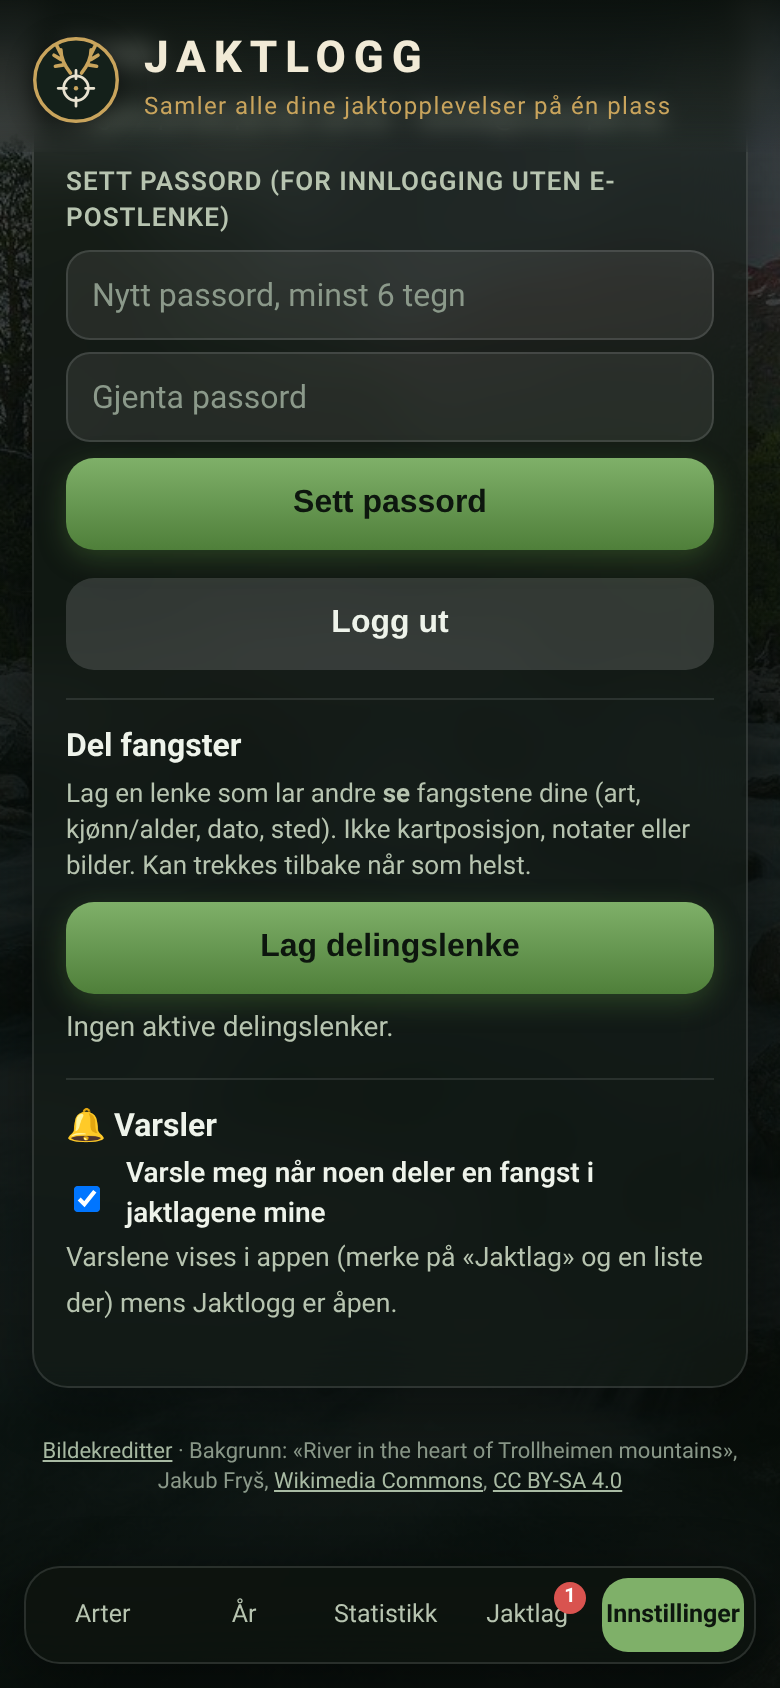
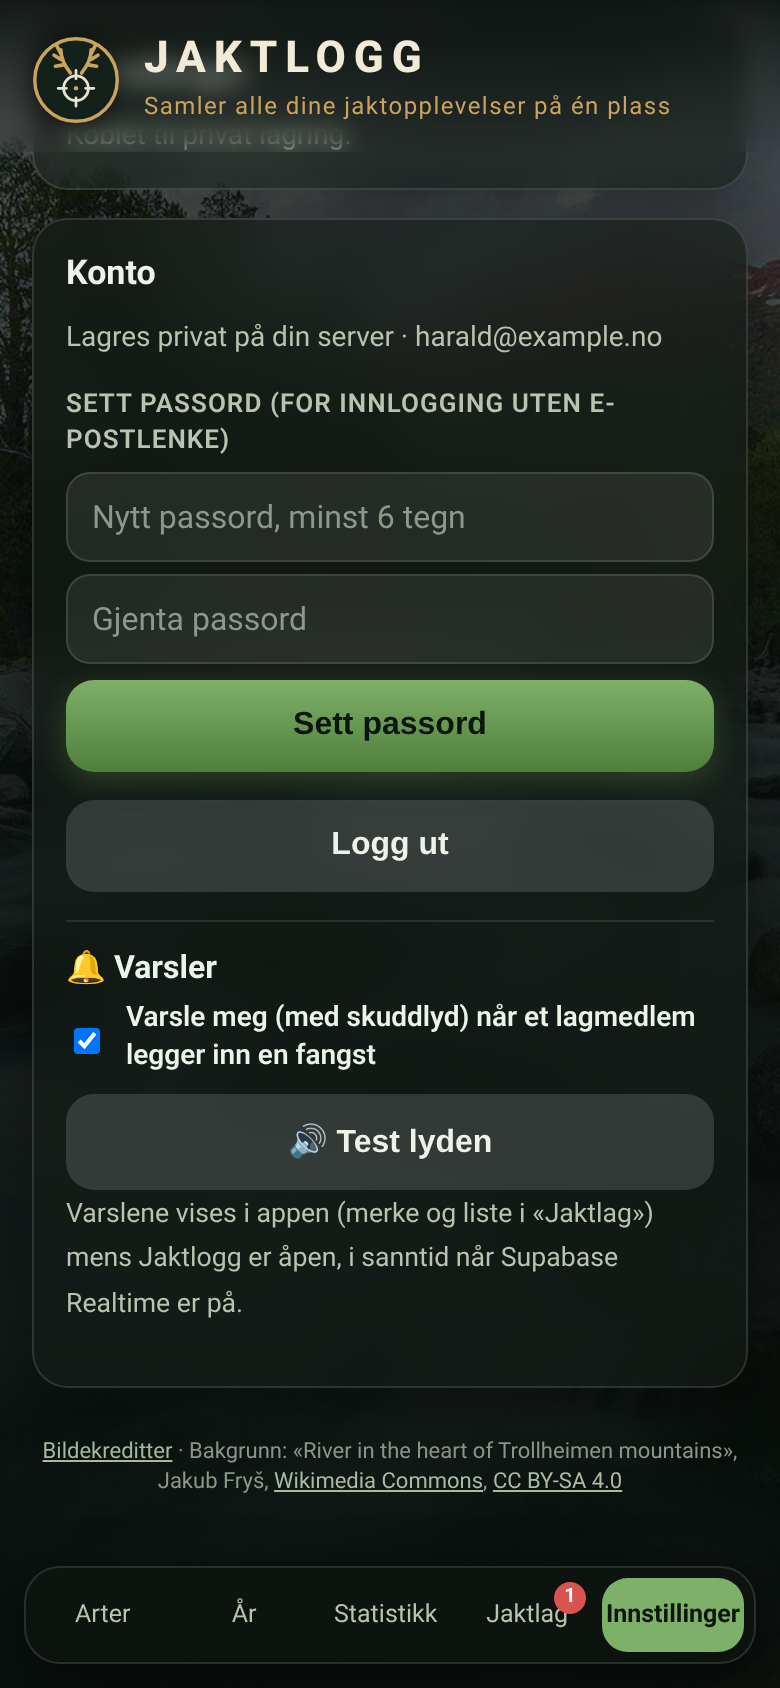
Fjern delingslenke-seksjon; automatisk deling av nye fangster til jaktlag (trigger), rifleskudd-lyd og Realtime-varsler

Changed region(s): [[0.0615, 0.0308, 0.9231, 0.8009], [0.9231, 0.0924, 0.9538, 0.154]]

diff --git a/index.html b/index.html
@@ -352,7 +352,7 @@ async function renderLag(id){$('view').innerHTML='<div class="empty">Laster jakt
  if(!t){$('view').innerHTML='<div class="empty">Fant ikke jaktlaget (eller du er ikke medlem).</div>';return}
  const own=t.owner===sbUser.id,c=cat||[],by={};c.forEach(r=>{(by[r.species]=by[r.species]||[]).push(r)});
  $('view').innerHTML=`<div class="panel"><button class="btn sec" id="lback" style="width:auto;margin:0 0 8px;padding:6px 12px">‹ Jaktlag</button><h2 style="margin:0">👥 ${esc(t.name)}</h2><p style="color:var(--m);font-size:13px;margin:4px 0 0">${(mem||[]).length} medlem${(mem||[]).length===1?'':'mer'} · ${c.length} delte fangster</p></div>
- <h2>Fangster i laget</h2>${ce?`<div class="empty">${esc(teamErr(ce))}</div>`:c.length?`<div class="panel">${Object.entries(by).sort((a,b)=>b[1].length-a[1].length).map(([s,l])=>`<div class="strow"><div class="sttop"><b>${esc(s)}</b><span>${l.length}</span></div>${l.map(r=>`<small style="display:block">${fmt(isoToLocal(r.taken_at))}${r.animal_class?' · '+esc(r.animal_class):''}${r.sted?' · '+esc(r.sted):''} · ${r.mine?'deg':esc(r.hunter||'')}</small>`).join('')}</div>`).join('')}</div>`:'<div class="empty">Ingen fangster delt i laget ennå. Åpne en fangst og velg «Del med jaktlag».</div>'}
+ <h2>Fangster i laget</h2>${ce?`<div class="empty">${esc(teamErr(ce))}</div>`:c.length?`<div class="panel">${Object.entries(by).sort((a,b)=>b[1].length-a[1].length).map(([s,l])=>`<div class="strow"><div class="sttop"><b>${esc(s)}</b><span>${l.length}</span></div>${l.map(r=>`<small style="display:block">${fmt(isoToLocal(r.taken_at))}${r.animal_class?' · '+esc(r.animal_class):''}${r.sted?' · '+esc(r.sted):''} · ${r.mine?'deg':esc(r.hunter||'')}</small>`).join('')}</div>`).join('')}</div>`:'<div class="empty">Ingen fangster delt i laget ennå. Nye fangster fra medlemmene dukker opp her automatisk.</div>'}
  <h2>Medlemmer</h2><div class="panel"><ul id="mlist" style="list-style:none;padding:0;margin:0">${(mem||[]).map(m=>`<li class="sttop" style="padding:6px 0"><span>${esc(m.email)}${m.role==='owner'?' <small style="color:var(--m)">(lagleder)</small>':''}</span>${own&&m.role!=='owner'?`<button class="btn sec" data-rm="${esc(m.email)}" style="width:auto;margin:0;padding:4px 10px">Fjern</button>`:''}</li>`).join('')}</ul>
  ${own?`<div class="maprow" style="margin-top:8px"><input id="minv" type="email" placeholder="E-post til medlem" style="flex:1"><button class="btn" id="madd" style="width:auto;margin:0;padding:10px 14px">Inviter</button></div><p style="color:var(--m);font-size:12px">Det sendes ingen e-post. Si fra til personen: de logger inn i Jaktlogg med denne e-postadressen, så dukker laget opp under «Jaktlag».</p>${''}<button class="btn danger" id="ldel" style="margin-top:8px">Slett jaktlaget</button>`:`<button class="btn sec" id="lleave" style="margin-top:8px">Forlat laget</button>`}<p id="lmsg" style="font-size:13px;color:var(--m)"></p></div><div style="height:90px"></div>`;
  $('lback').onclick=()=>setTab('lag');
@@ -362,20 +362,27 @@ async function renderLag(id){$('view').innerHTML='<div class="empty">Laster jakt
  if($('ldel'))$('ldel').onclick=async()=>{if(!confirm('Slette jaktlaget for alle? Fangstene selv slettes ikke.'))return;await sb.from('teams').delete().eq('id',id);setTab('lag')}}
 async function teamShareUI(x){if(!sbUser||!sb||Store!==SupabaseStore||!$('tshare'))return;let t;try{t=await myTeams()}catch(e){return}if(!t.length)return;
  const{data:sh}=await sb.from('team_entries').select('team_id').eq('entry_id',x.id);const on=new Set((sh||[]).map(r=>r.team_id));
- $('tshare').innerHTML=`<p style="margin:12px 0 4px">👥 <b>Del med jaktlag</b> <small style="color:var(--m)">(kun art, type, dato og sted)</small></p>${t.map(z=>`<label class="kopt" style="display:flex;gap:8px;align-items:center;margin:4px 0"><input type="checkbox" data-ts="${z.id}" ${on.has(z.id)?'checked':''} style="position:static;opacity:1;width:auto">${esc(z.name)}</label>`).join('')}<small id="tsm" style="color:var(--m)"></small>`;
+ $('tshare').innerHTML=`<p style="margin:12px 0 4px">👥 <b>Synlig i jaktlag</b> <small style="color:var(--m)">(deles automatisk; fjern haken for å holde den privat)</small></p>${t.map(z=>`<label class="kopt" style="display:flex;gap:8px;align-items:center;margin:4px 0"><input type="checkbox" data-ts="${z.id}" ${on.has(z.id)?'checked':''} style="position:static;opacity:1;width:auto">${esc(z.name)}</label>`).join('')}<small id="tsm" style="color:var(--m)"></small>`;
  document.querySelectorAll('[data-ts]').forEach(c=>c.onchange=async()=>{const r=c.checked?await sb.from('team_entries').insert({team_id:c.dataset.ts,entry_id:x.id}):await sb.from('team_entries').delete().eq('team_id',c.dataset.ts).eq('entry_id',x.id);$('tsm').textContent=r.error?teamErr(r.error):c.checked?'Delt med laget.':'Fjernet fra laget.'})}
 
 // ---- Jaktlag-fane og varsler ----
 const notifOn=()=>localStorage.getItem('jaktlogg.varsler')!=='0';
-const seenKey=()=>'jaktlogg.sett.'+(sbUser&&sbUser.id||'');let feed=[];
-async function checkFeed(){const bd=$('nbadge');if(!bd)return;if(!sbUser||!sb||!notifOn()){feed=[];bd.hidden=true;return}
+const seenKey=()=>'jaktlogg.sett.'+(sbUser&&sbUser.id||'');let feed=[],feedSeen=null,rtCh=null;
+// Rifleskudd: syntetisert med Web Audio (ingen lydfil): kort støystøt + lavt dunk + ekko-hale.
+function shotSound(){try{const A=window._ac=window._ac||new (window.AudioContext||window.webkitAudioContext)(),t=A.currentTime,n=A.sampleRate*1.2|0,b=A.createBuffer(1,n,A.sampleRate),d=b.getChannelData(0);
+ for(let i=0;i<n;i++){const x=i/A.sampleRate;d[i]=(Math.random()*2-1)*(x<.012?1:Math.exp(-(x-.012)*9)*.55)}
+ const src=A.createBufferSource();src.buffer=b;const f=A.createBiquadFilter();f.type='lowpass';f.frequency.setValueAtTime(5200,t);f.frequency.exponentialRampToValueAtTime(500,t+.5);
+ const g=A.createGain();g.gain.setValueAtTime(.9,t);g.gain.exponentialRampToValueAtTime(.001,t+1.15);src.connect(f).connect(g).connect(A.destination);src.start(t);
+ const o=A.createOscillator(),og=A.createGain();o.type='sine';o.frequency.setValueAtTime(140,t);o.frequency.exponentialRampToValueAtTime(40,t+.25);og.gain.setValueAtTime(.8,t);og.gain.exponentialRampToValueAtTime(.001,t+.3);o.connect(og).connect(A.destination);o.start(t);o.stop(t+.32)}catch(e){}}
+function startRealtime(){if(rtCh||!sb||!sbUser||!sb.channel)return;try{rtCh=sb.channel('jaktlag').on('postgres_changes',{event:'INSERT',schema:'public',table:'team_entries'},p=>{if(p.new&&p.new.shared_by!==sbUser.id)checkFeed()}).subscribe()}catch(e){}}
+async function checkFeed(){const bd=$('nbadge');if(!bd)return;if(!sbUser||!sb||!notifOn()){feed=[];bd.hidden=true;if(rtCh&&sb){sb.removeChannel(rtCh);rtCh=null}return}
  const since=localStorage.getItem(seenKey())||new Date(Date.now()-7*864e5).toISOString();
- const{data,error}=await sb.rpc('team_feed',{p_since:since});feed=error?[]:(data||[]);bd.hidden=!feed.length;bd.textContent=feed.length>9?'9+':feed.length}
+ startRealtime();const{data,error}=await sb.rpc('team_feed',{p_since:since});feed=error?[]:(data||[]);const ids=feed.map(r=>r.team_id+r.shared_at);const isNew=feedSeen&&ids.some(i=>!feedSeen.has(i));feedSeen=new Set(ids);if(isNew){shotSound();if(tab==='lag'&&$('lback')==null)setTimeout(renderJaktlag,0)}bd.hidden=!feed.length;bd.textContent=feed.length>9?'9+':feed.length}
 setInterval(checkFeed,60000);
 async function renderJaktlag(){if(!sbUser||!sb){$('view').innerHTML='<div class="panel"><h2 style="margin-top:0">👥 Jaktlag</h2><p style="color:var(--m)">Jaktlag krever innlogging. Logg inn under «Innstillinger» for å opprette eller bli med i et jaktlag.</p><button class="btn" id="goin">Til Innstillinger</button></div>';$('goin').onclick=()=>setTab('inn');return}
  await checkFeed();const nf=feed;
  $('view').innerHTML=(nf.length?`<div class="panel notif"><div class="sttop"><b>🔔 Nytt i jaktlagene</b><button class="btn sec" id="nseen" style="width:auto;margin:0;padding:4px 10px">Merk som lest</button></div>${nf.map(r=>`<small style="display:block;margin-top:6px">${esc(r.hunter)} delte <b>${esc(r.species)}</b>${r.animal_class?' ('+esc(r.animal_class)+')':''} i ${esc(r.team_name)} · ${fmt(isoToLocal(r.shared_at))}</small>`).join('')}</div>`:'')+
- `<div class="panel">BOX</div><div style="height:90px"></div>`.replace('BOX',`<div><h3 style="margin:0 0 4px;font-size:16px">👥 Jaktlag</h3><p style="color:var(--m);font-size:13px;margin:0">Lag et jaktlag og inviter medlemmer med e-post. Fangstene dine er private til du selv deler dem inn i laget (fra fangstens detaljside).</p><div class="maprow" style="margin-top:8px"><input id="tname" placeholder="Navn på jaktlag" maxlength="80" style="flex:1"><button class="btn" id="tnew" style="width:auto;margin:0;padding:10px 14px">Opprett</button></div><ul id="tlist"></ul><p id="tmsg" style="font-size:13px;color:var(--m)"></p></div>`);
+ `<div class="panel">BOX</div><div style="height:90px"></div>`.replace('BOX',`<div><h3 style="margin:0 0 4px;font-size:16px">👥 Jaktlag</h3><p style="color:var(--m);font-size:13px;margin:0">Lag et jaktlag og inviter medlemmer med e-post. Nye fangster du logger deles automatisk med lagene du er med i (art, type, dato, sted). Du kan fjerne en fangst fra et lag på fangstens detaljside.</p><div class="maprow" style="margin-top:8px"><input id="tname" placeholder="Navn på jaktlag" maxlength="80" style="flex:1"><button class="btn" id="tnew" style="width:auto;margin:0;padding:10px 14px">Opprett</button></div><ul id="tlist"></ul><p id="tmsg" style="font-size:13px;color:var(--m)"></p></div>`);
  if($('nseen'))$('nseen').onclick=()=>{localStorage.setItem(seenKey(),new Date().toISOString());renderJaktlag()};bindTeams()}
 async function renderSettings(){const n=(await LocalStore.list()).length;
  $('view').innerHTML=`<div class="panel"><h2 style="margin-top:0">Innstillinger</h2>
@@ -384,7 +391,7 @@ async function renderSettings(){const n=(await LocalStore.list()).length;
  <label>Anon / publishable key<input id="sk" type="password" autocomplete="off" placeholder="anon-nøkkel"></label>
  <div class="maprow"><button class="btn" id="ss" style="flex:1">Lagre</button>${cfg()?'<button class="btn sec" id="sx">Koble fra</button>':''}</div><p id="smsg" style="font-size:14px;color:var(--m)"></p>`:`<p style="color:var(--m);font-size:14px;margin:0">${cfg()?'Koblet til privat lagring.':'Fangster lagres kun på denne enheten.'}</p>`}</div>
  <div class="panel" style="margin-top:14px"><h2 style="margin-top:0">Konto</h2><p style="color:var(--m);font-size:14px;margin:0 0 10px">${modeText()}</p>
- ${!cfg()?'':sbUser?`<form id="spf" style="margin-bottom:10px"><label>Sett passord (for innlogging uten e-postlenke)<input id="sp1" type="password" minlength="6" required autocomplete="new-password" placeholder="Nytt passord, minst 6 tegn"></label><input id="sp2" type="password" minlength="6" required autocomplete="new-password" placeholder="Gjenta passord" style="margin-top:6px"><button class="btn" style="margin-top:8px">Sett passord</button><p id="spm" style="font-size:14px;color:var(--m)"></p></form><button class="btn sec" id="lo">Logg ut</button><div class="sharebox"><h3 style="margin:0 0 4px;font-size:16px">Del fangster</h3><p style="color:var(--m);font-size:13px;margin:0">Lag en lenke som lar andre <b>se</b> fangstene dine (art, kjønn/alder, dato, sted). Ikke kartposisjon, notater eller bilder. Kan trekkes tilbake når som helst.</p><button class="btn" id="shnew" style="margin-top:8px">Lag delingslenke</button><ul id="shlist"></ul><p id="shmsg" style="font-size:13px;color:var(--m)"></p></div><div class="sharebox"><h3 style="margin:0 0 4px;font-size:16px">🔔 Varsler</h3><label class="kopt" style="display:flex;gap:10px;align-items:center;text-transform:none;letter-spacing:0;font-size:14px;color:inherit"><input type="checkbox" id="nvon" style="position:static;opacity:1;width:auto"> Varsle meg når noen deler en fangst i jaktlagene mine</label><small style="color:var(--m)">Varslene vises i appen (merke på «Jaktlag» og en liste der) mens Jaktlogg er åpen.</small></div>${n?`<button class="btn" id="mig" style="margin-top:8px">Flytt lokale fangster til server (${n})</button>`:''}<p id="mmsg" style="font-size:14px;color:var(--m)"></p>`:'<button class="btn" id="li">Logg inn</button>'}</div>`;
+ ${!cfg()?'':sbUser?`<form id="spf" style="margin-bottom:10px"><label>Sett passord (for innlogging uten e-postlenke)<input id="sp1" type="password" minlength="6" required autocomplete="new-password" placeholder="Nytt passord, minst 6 tegn"></label><input id="sp2" type="password" minlength="6" required autocomplete="new-password" placeholder="Gjenta passord" style="margin-top:6px"><button class="btn" style="margin-top:8px">Sett passord</button><p id="spm" style="font-size:14px;color:var(--m)"></p></form><button class="btn sec" id="lo">Logg ut</button><div class="sharebox"><h3 style="margin:0 0 4px;font-size:16px">🔔 Varsler</h3><label class="kopt" style="display:flex;gap:10px;align-items:center;text-transform:none;letter-spacing:0;font-size:14px;color:inherit"><input type="checkbox" id="nvon" style="position:static;opacity:1;width:auto"> Varsle meg (med skuddlyd) når et lagmedlem legger inn en fangst</label><button class="btn sec" id="ntest" style="margin-top:8px">🔊 Test lyden</button><small style="color:var(--m)">Varslene vises i appen (merke og liste i «Jaktlag») mens Jaktlogg er åpen, i sanntid når Supabase Realtime er på.</small></div>${n?`<button class="btn" id="mig" style="margin-top:8px">Flytt lokale fangster til server (${n})</button>`:''}<p id="mmsg" style="font-size:14px;color:var(--m)"></p>`:'<button class="btn" id="li">Logg inn</button>'}</div>`;
  if($('ss'))$('ss').onclick=async()=>{const url=$('su').value.trim().replace(/\/+$/,'').replace(/\/(rest|auth|storage)\/v1.*$/i,'').replace(/\/+$/,''),key=$('sk').value.trim();
   if(!/^https:\/\/.+/.test(url)||!key){$('smsg').textContent='Fyll inn både URL og nøkkel.';return}
   if(keyRole(key)==='service_role'){$('smsg').textContent='Dette er en service_role/secret-nøkkel. Den skal aldri brukes i appen. Bruk anon-nøkkelen.';return}
@@ -392,7 +399,7 @@ async function renderSettings(){const n=(await LocalStore.list()).length;
  if($('sx'))$('sx').onclick=async()=>{if(sb)await sb.auth.signOut().catch(()=>{});localStorage.removeItem(CFG_KEY);await initBackend();renderSettings();$('hsub').textContent=modeText()};
  if($('li'))$('li').onclick=()=>renderLogin();
  if($('spf'))$('spf').onsubmit=async ev=>{ev.preventDefault();const a=$('sp1').value;if(a.length<6)return $('spm').textContent='Passordet må ha minst 6 tegn.';if(a!==$('sp2').value)return $('spm').textContent='Passordene er ikke like.';$('spm').textContent='Lagrer …';const{error}=await sb.auth.updateUser({password:a});$('spm').textContent=error?errNo(error):'Passordet er satt. Du kan nå logge inn med e-post og passord.';if(!error)$('spf').reset()};
- if(sbUser){bindShares();if($('nvon')){$('nvon').checked=notifOn();$('nvon').onchange=()=>{localStorage.setItem('jaktlogg.varsler',$('nvon').checked?'1':'0');checkFeed()}}}
+ if(sbUser){if($('nvon')){$('nvon').checked=notifOn();$('ntest').onclick=shotSound;$('nvon').onchange=()=>{localStorage.setItem('jaktlogg.varsler',$('nvon').checked?'1':'0');checkFeed()}}}
  if($('lo'))$('lo').onclick=async()=>{await sb.auth.signOut();sbUser=null;Store=LocalStore;renderSettings();$('hsub').textContent=modeText()};
  if($('mig'))$('mig').onclick=async()=>{if(!confirm(`Flytte ${n} lokale fangster til serveren? De slettes fra enheten når de er lastet opp.`))return;
   const list=await LocalStore.list();let ok=0;for(const e of list){try{$('mmsg').textContent=`Laster opp ${ok+1} av ${list.length} …`;await SupabaseStore.add(e);await LocalStore.delete(e.id);ok++}catch(err){$('mmsg').textContent=`Stoppet etter ${ok}: ${err.message}`;return}}

diff --git a/README.md b/README.md
@@ -121,9 +121,7 @@ Alle fra Wikimedia Commons, beskåret til kvadrat og komprimert (endret).
 
 ![Kjønn/alder](docs/screenshots/21-kjonn-alder-valg.png)
 
-**Deling (kun visning):** Kjør `supabase/schema.sql` på nytt i Supabase → SQL Editor (legger til kolonnen `animal_class`, tabellen `shares` med RLS og funksjonen `shared_entries`). Logg inn → Innstillinger → «Del fangster» → «Lag delingslenke» (kopieres automatisk). «Kopier» / «Trekk tilbake» per lenke. Mottakeren åpner lenken og ser en skrivebeskyttet liste (art, kjønn/alder, dato, sted). Kartposisjon, notater og bilder deles ikke. Ingen kan skrive via lenken.
-
-![Del](docs/screenshots/22-del-fangster.png) ![Delt visning](docs/screenshots/23-delt-visning.png)
+**Deling:** skjer nå via jaktlag (se «Jaktlag» under). Delingslenke-seksjonen i Innstillinger er fjernet.
 
 **Logo:** `assets/logo.svg` (gevir + trådkors). Fugler-raden bruker fjellrype-bildet `assets/species/rype.jpg` (kreditert under Bildekreditter). Merkelapper for fremmed art/lisens/kvote/skyddsjakt er fjernet fra artsrutene.
 
@@ -143,9 +141,9 @@ Krever innlogging og at `supabase/schema.sql` kjøres på nytt (nye tabeller `te
 - **Egen fane:** «Jaktlag» i bunnmenyen (krever innlogging).
 - **Opprett:** Jaktlag-fanen → skriv navn → «Opprett». Du blir lagleder.
 - **Inviter:** åpne laget → skriv e-post → «Inviter». Det sendes ingen e-post; personen logger inn i Jaktlogg med den e-postadressen, og laget dukker opp i Jaktlag-fanen. (Ingen brukernavn/profiler – kun e-post.)
-- **Del fangster:** fangster er private. Åpne en fangst → «Del med jaktlag» → huk av laget. Kun art, type, dato, sted og hvem som skjøt deles (ikke kartposisjon, notater eller bilder). Fjern haken for å trekke tilbake.
-- **Hvem kan hva:** alle medlemmer ser lagets fangster og medlemsliste, og kan dele/fjerne *egne* fangster. Kun lagleder inviterer, fjerner medlemmer, fjerner andres delinger og sletter laget. Medlemmer kan forlate laget selv.
+- **Deling skjer automatisk:** når du er med i et jaktlag, deles hver *ny* fangst du logger med laget (art, type, dato, sted og hvem som skjøt – aldri kartposisjon, notater eller bilder). Eldre fangster fra før du ble med deles ikke. Vil du holde en fangst privat: åpne den → «Synlig i jaktlag» → fjern haken. Er du ikke med i noe lag, er alt privat.
+- **Hvem kan hva:** alle medlemmer ser lagets fangster og medlemsliste, og kan fjerne *egne* fangster fra laget. Kun lagleder inviterer, fjerner medlemmer, fjerner andres delinger og sletter laget. Medlemmer kan forlate laget selv.
 
-- **Varsler:** Innstillinger → «🔔 Varsler» (på som standard). Når et annet medlem deler en fangst i et av lagene dine, får «Jaktlag»-fanen et rødt merke og en liste «Nytt i jaktlagene» (sjekkes ved oppstart og hvert minutt mens appen er åpen; «Merk som lest» nullstiller). Krever funksjonen `team_feed` fra schema.sql. Ingen push-/e-postvarsler.
+- **Varsler:** Innstillinger → «🔔 Varsler» (på som standard, «Test lyden»). Når et annet medlem legger inn en fangst i et av lagene dine, spilles et kort rifleskudd (syntetisert med Web Audio, ingen lydfil) og «Jaktlag»-fanen får et rødt merke og listen «Nytt i jaktlagene». Sanntid via Supabase Realtime på `team_entries` (schema.sql legger tabellen i publikasjonen), ellers sjekk hvert minutt. Kun mens appen er åpen; ingen push/e-post. Nettlesere kan blokkere lyd til du har trykket i appen én gang.
 
 ![Varsler](docs/screenshots/28-varsler-innstillinger.png) ![Jaktlag-fanen](docs/screenshots/26-jaktlag-fane.png) ![Jaktlag](docs/screenshots/27-jaktlag.png)
